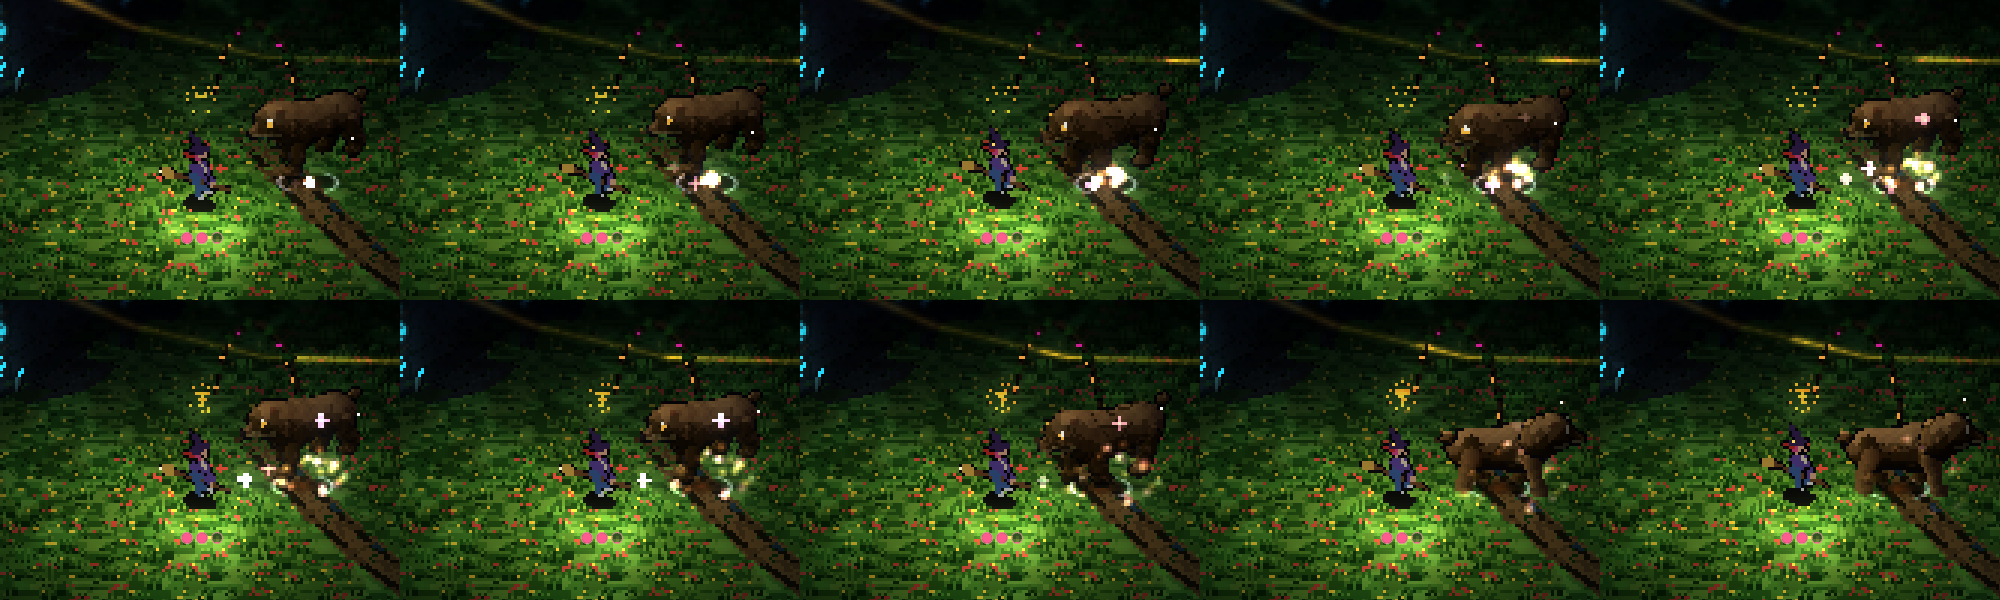
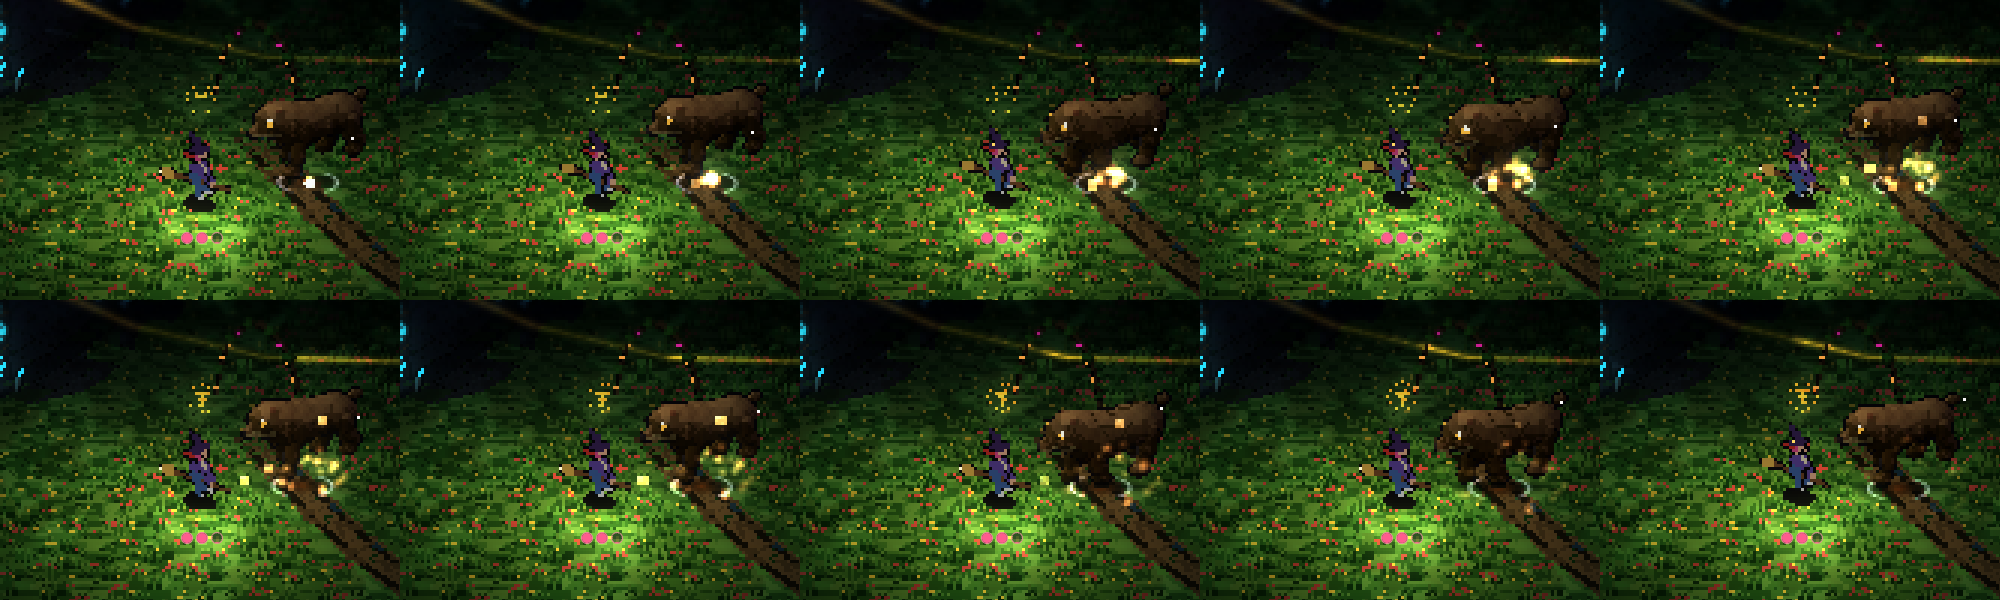
Party guests stand apart and twinkle amber (the art director on #200): each guest at a party place takes the first free slot on an arc behind it (the camera's side open, a body's width apart, the small ones inside and the big ones at the back; the near arc by an area's edge); party sparkles a small 
Claude-Session: https://claude.ai/code/session_01TZiiLtuTHaQyxfLgD6H57G

diff --git a/src/rules/game.ts b/src/rules/game.ts
@@ -12,7 +12,7 @@ import { inviteCreature, leashPoint, newLeash, stepLeash, type LeashControls, ty
 import { stepTravel, updateModes } from "./travel";
 import { buffing, cheer, LEGENDS, placeRelics, relicButton, stepLegendStates, type Relic } from "./legends";
 import { danceAt, invitableNow, stateOf, STATES } from "./creatureStates";
-import { guestSpot, partySpots } from "./partyGuests";
+import { ARC_SLOTS, guestSlot, guestSpot, partySpots, SLOT_RANGE } from "./partyGuests";
 import type { Cell } from "./partition";
 import { feedNearest, newBerries, stepBerries, type BerryState } from "./berries";
 import { cellKey, hurryWave, newParty, spreadWave, stepParty, type PartyState } from "./party";
@@ -534,9 +534,20 @@ function stepLegends(g: Game, ids: number[], happyNearest: boolean): void {
 /** How far from the witch creatures are simulated (by their home): at least far enough that one
  *  resuming anywhere in its area does so beyond the draw distance (the haze), so none ever jumps
  *  in view. */
-/** A happy creature joins its area's party: it goes to its spot (by the soundsystem, or one of the area's party places) and dances there. */
+/** A happy creature joins its area's party: it goes to its spot (by the soundsystem, or one of the area's party places) and
+ *  dances there, at a party place in the next free slot round it (guestSlot: the guests already there counted). */
 export function joinParty(g: Game, c: Creature, soundsystem: { x: number; z: number }, cell: Cell): void {
   const spot = guestSpot(c, soundsystem, partySpots(g.map, cell, g.tuning));
+  if (spot.kind === "soundsystem") { danceAt(c, spot, spot.r); return; }
+  // the guests already round this place, and their slots
+  const taken: Creature[] = [];
+  for (const o of g.creatures) if (o !== c && o.dancing && !o.gone && o.range <= SLOT_RANGE && o.cell[0] === cell[0] && o.cell[1] === cell[1] && Math.hypot(o.anchorX - spot.x, o.anchorZ - spot.z) < spot.r * 0.7 + 4) taken.push(o);
+  // the first free slot in its area (the far arc's, then the near arc's, for a place by its area's edge); else round the place itself
+  const free = (p: { x: number; z: number }) => { const cl = g.map.cellSafe(p.x, p.z).cell; return cl[0] === cell[0] && cl[1] === cell[1] && taken.every(o => Math.hypot(o.anchorX - p.x, o.anchorZ - p.z) > 1); };
+  for (const front of [false, true]) for (let k = 0; k < ARC_SLOTS * 3; k++) {
+    const at = guestSlot(spot, k, c.level, front);
+    if (free(at)) { danceAt(c, at, at.r); return; }
+  }
   danceAt(c, spot, spot.r);
 }
 

diff --git a/src/render/leash.ts b/src/render/leash.ts
@@ -40,8 +40,9 @@ import { LEGENDS, relicGlints } from "../rules/legends";
 import { witchHeight } from "../rules/witch";
 import { SPRITE_UNIFORMS } from "./sprites";
 
-/** The join burst's colours (the art director's night palette, #188): the lanterns' amber, the 💌s' rose, cream. */
-const JOIN_PALETTE = [[0.91, 0.71, 0.42], [0.85, 0.47, 0.62], [0.95, 0.86, 0.7]];
+/** The join burst's colours (the art director, #188 and #200): the lanterns' amber, light and deep, with the creature's own
+ *  neon; nothing white (white is a hit's). */
+const JOIN_PALETTE = [[0.91, 0.71, 0.42], [0.82, 0.52, 0.28], [0.91, 0.71, 0.42]];
 import { LIGHT_GLSL, LIGHT_UNIFORMS } from "./lighting";
 import { HEIGHT_UNIFORMS, HEIGHT_VERT_GLSL, placed } from "./height";
 
@@ -706,15 +707,15 @@ export class LeashView {
     this.bursts = this.bursts.filter(b => time - b.at < 1.1);
     for (const [id, at] of this.joined) if (time - at > 1) this.joined.delete(id);
     // Joining the party (an invite, or made happy): a short burst in the night's party palette (the art director's: the
-    // lanterns' amber, the 💌s' rose, cream, and the creature's own colour): confetti thrown up and falling, a few sparkles drifting up.
+    // lanterns' amber and the creature's own neon): confetti thrown up and falling, a few sparkles drifting up.
     // (Thrown from just in front of it, toward the camera, so its own body doesn't hide the burst.)
     for (const b of this.bursts) {
       const k = (time - b.at) / 1.1;
       for (let i = 0; i < 28; i++) {
         const a = hash2(b.seed, i, 3) * Math.PI * 2, sp = 2 + hash2(b.seed, i, 5) * 2.4, up = 2.2 + hash2(b.seed, i, 7) * 2.6;
-        const c = i % 4 === 3 ? b.rgb : JOIN_PALETTE[i % 3], spark = i % 5 === 0;
+        const c = i % 3 === 2 ? b.rgb : JOIN_PALETTE[i % 3], spark = i % 5 === 0;
         const y = spark ? 0.9 + k * 2.6 : 0.7 + up * k - 4 * k * k, r = spark ? sp * 0.3 : sp;
-        this.standing.add(b.x + Math.cos(a) * r * k, y, b.z + 1.2 + Math.sin(a) * r * k * 0.7, spark ? 0.5 : 0.62, dot, c[0], c[1], c[2], spark ? 1 - k * k : Math.min(1, 1.6 * (1 - k)));
+        this.standing.add(b.x + Math.cos(a) * r * k, y, b.z + 1.2 + Math.sin(a) * r * k * 0.7, spark ? 0.5 : 0.62, dot, c[0], c[1], c[2], 0.85 * (spark ? 1 - k * k : Math.min(1, 1.6 * (1 - k)))); // (under 1: overlapping, they add up toward amber, not white)
       }
     }
     // Talking: a faint ring round the creature she's talking to, filling as the chat goes on; a

diff --git a/src/rules/partyGuests.test.ts b/src/rules/partyGuests.test.ts
@@ -5,7 +5,8 @@ import { describe, expect, it } from "vitest";
 import { generateMap } from "./map";
 import { pointInArea } from "./creatures";
 import { dressingOf } from "./partyDressing";
-import { AT_SOUNDSYSTEM, guestSpot, partySpots } from "./partyGuests";
+import { AT_SOUNDSYSTEM, guestSlot, guestSpot, partySpots } from "./partyGuests";
+import { joinParty, newGame } from "./game";
 import { rng } from "./random";
 import { TUNING } from "./tuning";
 
@@ -42,5 +43,21 @@ describe("guests at the party", () => {
       const [x, z] = pointInArea(map, c, r);
       expect(Math.hypot(x - s.x, z - s.z)).toBeLessThanOrEqual(s.r + 1e-6);
     }
+  });
+  it("stands guests round a party place apart, behind it, the big ones further back", () => {
+    const s = { x: 0, z: 0, r: 2.6, kind: "cluster" as const };
+    const at = Array.from({ length: 5 }, (_, i) => guestSlot(s, i, 2));
+    for (const p of at) expect(p.z).toBeLessThan(0); // the far side: the camera's side open
+    for (let i = 0; i < at.length; i++) for (let j = i + 1; j < at.length; j++) expect(Math.hypot(at[i].x - at[j].x, at[i].z - at[j].z)).toBeGreaterThan(1.2);
+    expect(Math.hypot(guestSlot(s, 0, 0).z, guestSlot(s, 0, 0).x)).toBeLessThan(Math.hypot(guestSlot(s, 0, 3).z, guestSlot(s, 0, 3).x));
+  });
+  it("gives each guest joining a place its own slot", () => {
+    const g = newGame(123, TUNING), cell = cells[5], ss = g.map.soundsystemSpot(cell[0], cell[1]), spots = partySpots(g.map, cell, g.tuning);
+    const guests = g.creatures.filter(c => !c.boss).slice(0, 60).map(c => ({ ...c, cell }));
+    let i = 0;
+    for (const c of guests) { c.id = g.creatures.length + i++; g.creatures.push(c); joinParty(g, c, ss, cell); }
+    const byPlace = guests.filter(c => c.range < 1);
+    expect(byPlace.length).toBeGreaterThan(spots.length);
+    for (let a = 0; a < byPlace.length; a++) for (let b = a + 1; b < byPlace.length; b++) expect(Math.hypot(byPlace[a].anchorX - byPlace[b].anchorX, byPlace[a].anchorZ - byPlace[b].anchorZ), `${a},${b}`).toBeGreaterThan(0.5);
   });
 });

diff --git a/src/rules/partyGuests.ts b/src/rules/partyGuests.ts
@@ -45,6 +45,19 @@ export function partySpots(map: ForestMap, cell: Cell, t: Tuning): PartySpot[] {
   return spots;
 }
 
+/** Guests stand round a party place (the art director, #200: "they pile up"): each its own slot on an arc behind it (the
+ *  far side, -z, so the side towards the camera stays open and none stands in front of another), a body's width or more
+ *  apart, the small ones on the inside (nearer the front) and the big ones on the outside (at the back); past
+ *  `ARC_SLOTS` a second, wider arc (`front`: the arc on the near side, for a place whose far side is over its area's edge). Each keeps to its slot, shuffling within `SLOT_RANGE` metres. */
+export const ARC_SLOTS = 5, SLOT_RANGE = 0.5;
+const ARC_ORDER = [0.5, 0.25, 0.75, 0, 1]; // (the middle first, then either side, then the ends)
+export function guestSlot(spot: PartySpot, slot: number, level: number, front = false): { x: number; z: number; r: number } {
+  if (spot.kind === "soundsystem") return spot;
+  const t = ARC_ORDER[slot % ARC_SLOTS], a = Math.PI + 0.35 + t * (Math.PI - 0.7);
+  const ring = spot.r * 0.7 + 0.5 * Math.min(3, level) + Math.floor(slot / ARC_SLOTS) * 1.3;
+  return { x: spot.x + Math.cos(a) * ring, z: spot.z + (front ? -1 : 1) * Math.sin(a) * ring, r: SLOT_RANGE };
+}
+
 /** Where this guest gathers: by its soundsystem (a share of them) or at one of the area's party places, dealt by its id. */
 export function guestSpot(c: Pick<Creature, "id">, soundsystem: { x: number; z: number }, spots: PartySpot[]): PartySpot {
   if (!spots.length || hash2(c.id, 17, 401) < AT_SOUNDSYSTEM) return { x: soundsystem.x, z: soundsystem.z, r: SPOT_RANGE.soundsystem, kind: "soundsystem" };

diff --git a/src/render/looks.ts b/src/render/looks.ts
@@ -71,10 +71,11 @@ function pixels(w: number, h: number, draw: (x: CanvasRenderingContext2D) => voi
   return t;
 }
 
-/** A party sparkle: a tiny white-and-pink twinkle, three pixels across. */
-const SPARKLE = (): THREE.CanvasTexture => pixels(3, 3, x => {
-  x.fillStyle = "#ffb3e6"; x.fillRect(1, 0, 1, 3); x.fillRect(0, 1, 3, 1);
-  x.fillStyle = "#ffffff"; x.fillRect(1, 1, 1, 1);
+/** A party sparkle: a tiny warm twinkle, two pixels across, in the lanterns' amber (the art director, #200: never a white
+ *  cross, which is a hit's contact star). */
+const SPARKLE = (): THREE.CanvasTexture => pixels(2, 2, x => {
+  x.fillStyle = "#e8b46a"; x.fillRect(0, 0, 2, 2);
+  x.fillStyle = "#f6d59a"; x.fillRect(0, 0, 1, 1);
 });
 const hash01 = (a: number, b: number) => { const s = Math.sin(a * 127.1 + b * 311.7) * 43758.5453; return s - Math.floor(s); };
 
@@ -142,7 +143,7 @@ export class StateMarks {
           const ph = (time * P.rate + hash01(c.id, i)) % 1, lit = Math.sin(Math.min(1, ph / 0.5) * Math.PI);
           if (ph > 0.5) continue;
           const a = hash01(c.id, i + 7) * Math.PI * 2, r = 0.35 + top * 0.45, h = 0.15 + hash01(c.id, i + 13) * top;
-          this.put(this.sparkle, c.x + Math.cos(a) * r, h, c.z + Math.sin(a) * r * 0.4, 3 * px * P.size * (0.6 + 0.4 * lit), 3 * px * P.size * (0.6 + 0.4 * lit), lit * P.strength);
+          this.put(this.sparkle, c.x + Math.cos(a) * r, h, c.z + Math.sin(a) * r * 0.4, 2 * px * P.size * (0.6 + 0.4 * lit), 2 * px * P.size * (0.6 + 0.4 * lit), lit * P.strength);
         }
       }
       if (ex === "angry" && !c.boss) {

diff --git a/src/rules/creatureStates.test.ts b/src/rules/creatureStates.test.ts
@@ -167,7 +167,8 @@ describe("creature states (#87)", () => {
     g.party.areas.set(key, { cell: h.cell, soundsystem: site, at: g.clock.time } as never);
     run(g, 0.2);
     expect(h.dancing).toBe(true);
+    // by the soundsystem, or at one of the party places, in a slot round it (partyGuests.ts guestSlot)
     const places = [site, ...partySpots(g.map, h.cell, g.tuning)];
-    expect(Math.min(...places.map(p => Math.hypot(h.anchorX - p.x, h.anchorZ - p.z)))).toBeLessThan(0.01);
+    expect(Math.min(...places.map(p => Math.hypot(h.anchorX - p.x, h.anchorZ - p.z)))).toBeLessThan(h.range < 1 ? 7 : 0.01);
   }, 60000);
 });
